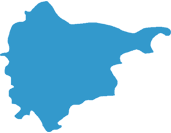
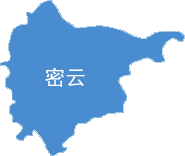
发现地图页
发现北京地图页 地图已经换好  右边的点击效果也做好了

diff --git a/page/discovery/city.html b/page/discovery/city.html
@@ -52,105 +52,98 @@
      <div  class="col-xs-12 col-sm-12 col-md-12 filter_2"> 
        <div class="col-xs-12 col-sm-12 col-md-6 beijingmap" id="beijingmap" >
          <style type="text/css">
-            .miyun{left: 53.2%;top: 23%;position: absolute;}
-            .huairou{left: 0%;top: 20%;position: absolute;}
-            .yanqin{left: 0%;top: 20%;position: absolute;}
-            .changping{left: 0%;top: 20%;position: absolute;}
-            .shunyi{left: 0%;top: 20%;position: absolute;}
-            .pinggu{left: 0%;top: 20%;position: absolute;}
-            .tongzhou{left: 0%;top: 20%;position: absolute;}
-            .zhongxin{left: 0%;top: 20%;position: absolute;}
-            .mentougou{left: 0%;top: 20%;position: absolute;}
-            .fangshan{left: 0%;top: 20%;position: absolute;}
-            .daxing{left: 0%;top: 20%;position: absolute;}
+            .miyun{left: 63%;top: 26.5%;position: absolute;}
+            .huairou{left: 47.5%;top: 14%;position: absolute;}
+            .yanqin{left: 26%;top: 26.5%;position: absolute;}
+            .changping{left: 30.3%;top: 44.3%;position: absolute;}
+            .shunyi{left: 55%;top: 48.5%;position: absolute;}
+            .pinggu{left: 73.5%;top: 45.5%;position: absolute;}
+            .tongzhou{left: 57%;top: 61%;position: absolute;}
+            .zhongxin{left: 38%;top: 54.5%;position: absolute;}
+            .mentougou{left: 12.5%;top: 53.5%;position: absolute;}
+            .fangshan{left: 12.8%;top: 65%;position: absolute;}
+            .daxing{left: 44%;top: 70%;position: absolute;}
           </style>
 
-          <img src="/static/images/beijing-map (3).png" width="500" height="456" usemap="#Map" border="0" style="display: block;margin-left:0px;" id="map_bg"  />
-          <map name="Map" id="Map">
+          <img src="/static/images/beijingmap.jpg"  width="600" height="600" usemap="#Map" border="0"  style="display: block;margin-left:0px;" id="map_bg"  />
 
-            <area shape="poly" coords="342,166,348,129,388,130,417,138,436,144,404,165,394,177,391,200,370,205,353,215,343,227,337,238,325,234,319,227,310,219,302,218,298,213,293,198,293,184,288,171,289,155,295,135,304,129,313,118,324,108,337,117,341,122,345,126"  href="#" onmouseover="show_map('miyun')"/>
+         <map name="Map" id="Map">
+  <area shape="poly" coords="411,237,426,189,452,186,476,195,497,200,531,197,510,219,475,233,464,240,472,270,447,275,430,283,415,299,407,313,394,302,383,292,370,291,363,260,356,241,356,224,358,206,369,190,377,184,377,173,388,165,401,160,422,187,425,191" href="#" onmouseover="show_map('miyun')" />
   
-            <area shape="poly" coords="270,149,269,60,285,50,291,76,307,89,320,98,279,156,286,187,290,225,274,230,258,229,239,227,237,219,224,212,209,205,204,194,259,147,257,132,248,126,251,116,229,76,242,74,247,59,261,58,265,61,269,60" href="#"  onmouseover="show_map('huairou')"/>
+  <area shape="poly" coords="343,199,345,88,340,108,324,109,306,110,306,131,285,121,279,128,317,171,314,189,330,201,314,223,307,232,315,242,263,255,278,268,290,284,304,285,314,302,335,299,348,300,357,303,365,291,352,222,359,197,367,184,377,171,397,155,380,145,367,129,353,113,355,93,346,89" href="#" onmouseover="show_map('huairou')" />
   
-            <area shape="poly" coords="177,164,192,106,219,109,243,111,242,133,251,143,235,163,214,174,195,185,189,196,171,198,161,209,143,209,128,214,120,206,105,197,98,182,91,170,95,157,107,152,124,146,154,149,162,141,174,132,184,122,187,117,189,117" href="#" onmouseover="show_map('yanqin')"/>
+  <area shape="poly" coords="246,230,258,161,280,163,304,165,311,179,316,200,314,218,302,234,300,242,262,244,259,263,241,268,230,276,222,280,205,282,193,285,185,282,174,267,157,250,152,224,174,212,193,204,223,206,232,193,247,182,255,165" href="#" onmouseover="show_map('yanqin')" />
   
+  <area shape="poly" coords="249,307,252,270,273,272,281,284,299,293,304,307,305,327,305,347,291,356,280,358,262,353,252,334,239,329,220,339,202,348,187,344,181,335,171,327,172,316,177,308,188,300,196,297,201,288,212,286,219,286,232,280,244,274,250,274" href="#" onmouseover="show_map('changping')" />
   
-            <area shape="poly" coords="184,233,218,217,233,232,234,254,233,273,223,278,208,276,187,262,172,253,157,260,135,271,122,260,111,253,117,243,129,230,139,224,147,216,162,216,177,212,180,206,196,206,204,206,209,210,214,215" href="#" onmouseover="show_map('changping')" />
+  <area shape="poly" coords="360,337,365,301,381,298,395,314,409,328,413,346,410,359,384,363,364,364,347,368,333,365,320,358,307,346,308,326,309,305,335,308,350,309,359,307,363,307" href="#" onmouseover="show_map('shunyi')" />
   
+  <area shape="poly" coords="453,318,471,278,485,301,495,308,506,325,492,340,469,348,452,353,430,360,414,361,419,342,412,321,412,312,415,305,423,295,432,287,439,280,450,277,460,277,465,277,469,279" href="#" onmouseover="show_map('pinggu')" />
   
-            <area shape="poly" coords="290,262,320,238,335,259,341,277,315,281,299,282,282,286,266,286,253,278,240,263,240,252,241,239,253,236,266,237,281,237,288,235,296,234,310,230,317,232,317,238" href="#"  onmouseover="show_map('shunyi')"/>
+  <area shape="poly" coords="363,432,361,373,369,374,371,404,388,415,402,419,410,430,398,445,394,455,387,467,375,478,360,469,348,453,333,447,318,447,318,440,322,423,336,418,341,404,344,394,346,370,355,374,363,375" href="#" onmouseover="show_map('tongzhou')" />
   
+  <area shape="poly" coords="273,391,279,362,295,362,310,357,323,366,333,373,339,387,335,404,328,418,311,419,292,421,287,430,276,427,268,428,261,428,251,421,225,430,219,426,216,412,232,406,229,387,224,376,233,372,220,359,212,352,220,343,238,338,250,342,269,356,276,362" href="#" onmouseover="show_map('zhongxin')" />
   
-            <area shape="poly" coords="379,242,389,209,405,214,414,229,422,244,421,259,404,264,387,274,369,276,343,284,350,270,346,247,344,234,355,227,363,216,375,212,384,209,390,209" href="#" onmouseover="show_map('pinggu')"/>
+  <area shape="poly" coords="153,366,149,328,171,336,185,344,197,355,213,359,226,368,223,385,226,398,213,410,199,410,169,393,156,391,136,394,115,401,101,419,92,413,92,397,88,388,70,381,82,364,91,353,114,341,132,337,144,335,148,330" href="#" onmouseover="show_map('mentougou')" />
   
-            <area shape="poly" coords="294,344,289,296,302,317,318,337,335,343,328,356,322,365,313,378,306,382,298,386,289,377,282,365,270,362,254,362,251,354,255,340,270,333,270,322,275,312,279,305,286,299,293,300" href="#" onmouseover="show_map('tongzhou')"/>
+  <area shape="poly" coords="161,443,158,398,174,401,183,406,190,412,205,415,215,425,229,434,251,437,244,453,244,472,233,486,208,487,192,485,177,486,169,491,149,503,135,492,128,480,122,473,94,471,80,459,83,450,82,436,74,428,91,427,113,419,131,402,142,397,154,397,157,404" href="#" onmouseover="show_map('fangshan')" />
   
-  
-            <area shape="poly" coords="204,307,228,286,252,283,260,297,266,311,263,327,250,334,235,336,226,336,220,343,206,340,199,339,189,336,184,329,177,334,164,342,153,329,167,315,166,300,174,291,164,280,154,277,162,269,171,265,177,260,190,276,203,285,215,289,222,290" href="#" onmouseover="show_map('zhongxin')"/>
-  
-  
-            <area shape="poly" coords="94,282,90,256,103,261,112,263,122,270,134,278,146,275,155,287,161,295,159,307,160,320,147,327,134,324,115,311,98,314,86,308,66,312,50,324,33,333,33,316,26,305,17,298,18,289,27,281,48,273,57,270,73,263,80,262,90,262" href="#" onmouseover="show_map('mentougou')"/>
-  
-  
-            <area shape="poly" coords="101,359,115,321,124,331,137,336,148,338,153,350,172,353,181,351,177,366,177,383,173,394,152,397,130,392,116,393,104,397,92,404,82,404,69,396,61,384,52,384,36,386,28,378,25,360,25,349,44,345,47,333,70,324,86,314,97,318,104,318,111,318,112,322" href="#" onmouseover="show_map('fangshan')"/>
-  
-  
-            <area shape="poly" coords="214,382,220,355,235,344,245,347,246,363,257,370,269,369,277,382,254,386,239,394,233,404,223,407,214,414,212,422,199,418,190,411,185,401,185,391,182,370,185,363,191,358,200,348,205,347,211,352,213,354,215,357" href="#" onmouseover="show_map('daxing')"/>
-          </map>
+  <area shape="poly" coords="286,468,286,438,297,428,313,425,316,446,322,455,339,455,351,470,351,479,314,481,294,497,285,504,283,518,266,513,250,501,247,479,248,461,255,446,261,433,275,430,281,436,284,437" href="#" onmouseover="show_map('daxing')" />
+         </map>
 
           <a href="city.html" target="_blank" class="miyun" style="display: none;">
            <img class="" src="/static/images/miyun.png" >
           </a>
 
           <a href="#" target="_blank" class="huairou" style="display: none;">
-           <img class="" src="" >
+           <img class="" src="/static/images/huairou.png" >
           </a>
 
           <a href="#" target="_blank" class="yanqin" style="display: none;">
-           <img class="" src="" >
+           <img class="" src="/static/images/yanqin.png" >
           </a>
 
           <a href="#" target="_blank" class="changping" style="display: none;">
-           <img class="" src="" >
+           <img class="" src="/static/images/changping.png" >
           </a>
 
           <a href="#" target="_blank" class="shunyi" style="display: none;">
-           <img class="" src="" >
+           <img class="" src="/static/images/shunyi.png" >
           </a>
 
           <a href="#" target="_blank" class="pinggu" style="display: none;">
-           <img class="" src="" >
+           <img class="" src="/static/images/pinggu.png" >
           </a>
 
           <a href="#" target="_blank" class="tongzhou" style="display: none;">
-           <img class="" src="" >
+           <img class="" src="/static/images/tongzhou.png" >
           </a>
 
           <a href="#" target="_blank" class="zhongxin" style="display: none;">
-           <img class="" src="" >
+           <img class="" src="/static/images/zhongxin.png" >
           </a>
 
           <a href="#" target="_blank" class="mentougou" style="display: none;">
-           <img class="" src="" >
+           <img class="" src="/static/images/mentougou.png" >
           </a>
 
           <a href="#" target="_blank" class="fangshan" style="display: none;">
-           <img class="" src="" >
+           <img class="" src="/static/images/fangshan.png" >
           </a>
 
           <a href="#" target="_blank" class="daxing" style="display: none;">
-           <img class="" src="" >
+           <img class="" src="/static/images/daxing.png" >
           </a>
        </div>
 
-       <div class="col-xs-12 col-sm-12 col-md-6 right_back">
-         <div class="col-xs-12 col-sm-3 col-md-3 filter_title_2">
+       <div class="col-xs-12 col-sm-12 col-md-5 right_back">
+         <div class="col-xs-12 col-sm-3 col-md-4 filter_title_2">
            <h4 class="filter1_title"><i class="fa fa-coffee"></i>&nbsp;游玩地区：</h4>
          </div>
-         <div class="col-xs-12 col-sm-9 col-md-9 filter_body_2" >
+         <div class="col-xs-12 col-sm-9 col-md-8 filter_body_2" >
             <ul class="city row" style="">
                        <div class="col-xs-6 col-sm-3 col-md-3">                       
-                         <li name="miyun"> <a href="city.html" target="_blank" class="" _hover-ignore="1">密云</a></li>
+                         <li name="miyun"> <a href="city.html" target="_blank" class="city_active" _hover-ignore="1">密云</a></li>
                          <li name="huairou"><a href="#" target="_blank" class="" _hover-ignore="1">怀柔</a></li>
                          <li name="yanqin"><a href="#" target="_blank" class="" _hover-ignore="1">延庆</a></li>
                         
@@ -175,10 +168,10 @@
             </ul>   
          </div>
         
-         <div class="col-xs-12 col-sm-3 col-md-3 filter_title_2">
+         <div class="col-xs-12 col-sm-3 col-md-4 filter_title_2">
            <h4 class="filter2_title"><i class="fa fa-coffee"></i>&nbsp;游玩主题：</h4>
          </div>
-         <div class="col-xs-12 col-sm-9 col-md-9 filter_body_2 else_one" >
+         <div class="col-xs-12 col-sm-9 col-md-8 filter_body_2 else_one" >
             <ul class="row" style="">
                   <div class="col-xs-6 col-sm-3 col-md-3">                       
                          <li><a class="else_active">烧烤√</a></li>
@@ -206,10 +199,10 @@
             </ul> 
          </div>
 
-         <div class="col-xs-12 col-sm-3 col-md-3 filter_title_2">
+         <div class="col-xs-12 col-sm-3 col-md-4 filter_title_2">
            <h4 class="filter3_title"><i class="fa fa-group"></i>&nbsp;游玩同伴：</h4>
          </div>
-         <div class="col-xs-12 col-sm-9 col-md-9 filter_body_2 else_two">
+         <div class="col-xs-12 col-sm-9 col-md-8 filter_body_2 else_one">
             <ul class="row" style="">
                        <div class="col-xs-6 col-sm-3 col-md-3">                       
                          <li> <a class="else_active" >老人√</a></li>
@@ -231,10 +224,10 @@
             </ul> 
          </div>
 
-         <div class="col-xs-12 col-sm-3 col-md-3 filter_title_2">
+         <div class="col-xs-12 col-sm-3 col-md-4 filter_title_2">
            <h4 class="filter4_title"><i class="fa fa-suitcase"></i>&nbsp;游玩季节：</h4>
          </div>
-         <div class="col-xs-12 col-sm-9 col-md-9 filter_body_2 else_three">
+         <div class="col-xs-12 col-sm-9 col-md-8 filter_body_2 else_one">
            <ul class="row" style="">
                        <div class="col-xs-6 col-sm-3 col-md-3">                       
                          <li > <a class="else_active">当季√</a></li>                       
@@ -680,7 +673,8 @@
              $(document).ready(function(){
              $('.miyun').show();
              var imgs=$('.beijingmap').find('a');
-             var citys=$('.city li');
+             var citys=$('.city li');            
+             console.log(citys);
              citys.mouseover(function(){
              citys.find('a').removeClass('city_active');
              $(this).find('a').addClass('city_active');
@@ -709,30 +703,22 @@
 
               }
 
-   $(document).ready(function(){ 
-    var textvalue=[];
-    var len1=$(".else_three ul div li a").length;
-    var len2=$(".else_three ul div li a").eq(0).text().length;
-    textvalue[0]=$(".else_three ul div li a").eq(0).text().substring(0,len2-1);
-    for(i=1;i<len1;i++)
-      { textvalue[i]=$(".else_three ul div li a").eq(i).text();}
-
-     // console.log(textvalue);
-    
-
-
-       $(".else_three ul div li a").click( 
+//游玩主题
+       $(".else_one ul div li a").click( 
          function(){
-          var inx = $(this).parent("li").parent("div").index();//定义变量inx,返回这个元素在同辈中的索引位置
-         // var textvalue =$(this).parent("li").find("a").text();
-         console.log(inx);
-          if($(".else_three ul div li").eq(inx).find("a").hasClass("else_active"))
-              {$(".else_three ul div li").eq(inx).find("a").removeClass("else_active").text(textvalue[inx]); }
-          else{$(".else_three ul div li").eq(inx).find("a").addClass("else_active").text(textvalue[inx]+"√");}
-          });       
-       
-     });   
-
+         var len2_2=$(this).text().length;
+         var textvalue2_1=$(this).text();
+         var textvalue2_2=$(this).text().substring(0,len2_2-1);
+         console.log(textvalue2_1);
+         console.log(textvalue2_2);
+         if($(this).hasClass("else_active"))
+              {$(this).removeClass("else_active") }
+          else{$(this).addClass("else_active")}
+            
+          if($(this).text().indexOf("√")!=-1){$(this).text(textvalue2_2);}
+            else{$(this).text(textvalue2_1+"√");}
+     });
+     
 </script>
 <script type="text/javascript" src="/static/js/defined_c.js"></script>
   </body>

diff --git a/static/css/defined.css b/static/css/defined.css
@@ -271,13 +271,14 @@ color: #fff;
 .hot_spot {margin-right:10px;}
 .display_in{display: run-in;}
 .display_none{display: none;}
-.right_back{padding:20px 10px 0px 0px;}
+.right_back{padding:90px 10px 20px 0px;}
 .right_back ul{list-style:none;-webkit-padding-start: 0px;margin-bottom:5px;}
 .right_back ul li{}
 .right_back ul li a{width:100%;}
 .else_active{background: #78A8DA;border-color:#fff;color:#fff;}
 .btn_defined{background: #78A8DA;width: 100%;color:#fff;}
-
+.beijingmap{padding-left: 0px;}
+.else_one ul div li a:hover{color:#fff;background: }
 /*面包屑导航*/
 .breadcrumb{background-color: #fff;margin-bottom: 0px;padding: 8px 8px;}
 .breadcrumb a{color:#588DC2;}
@@ -303,7 +304,7 @@ text-align: center;
 border: 1px rgba(170, 170, 170, 0.47) solid;
 }
 
-.filter_2{padding:10px;background:#fff;margin-bottom:15px;margin-top:15px;}
+.filter_2{background:#fff;margin-bottom:15px;margin-top:15px;}
 .filter_title_2{padding-right:0px;}
 .filter_body_2 ul li a{display: inline-block;
 margin: 5px 10px;
